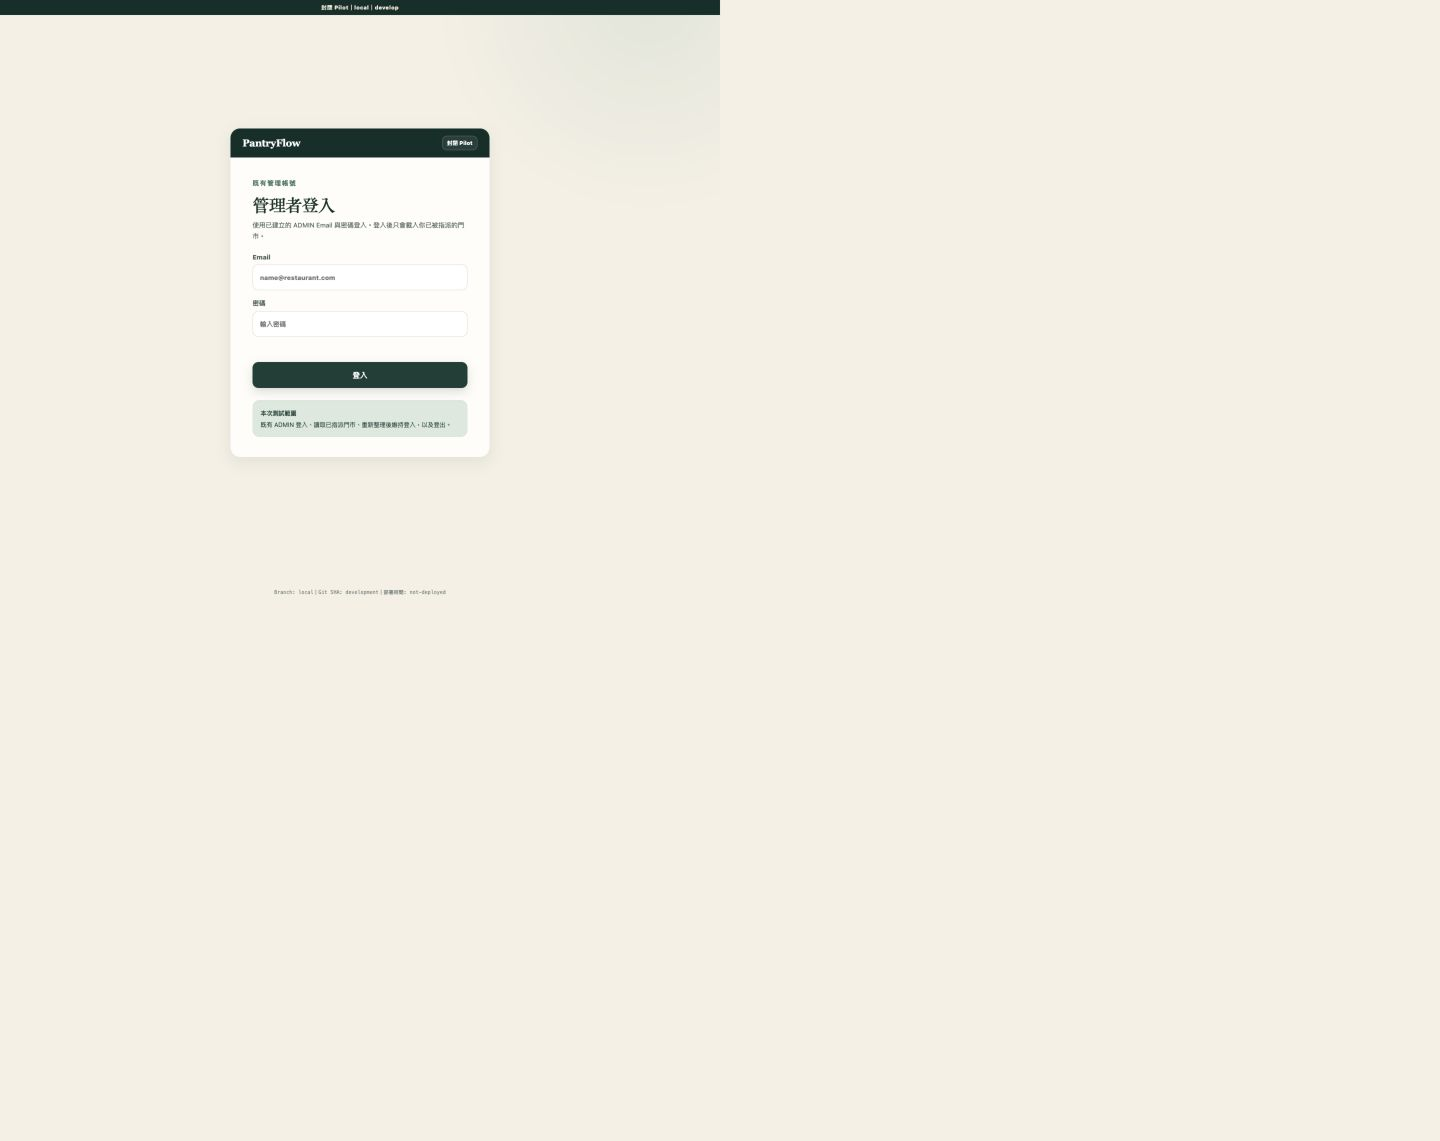
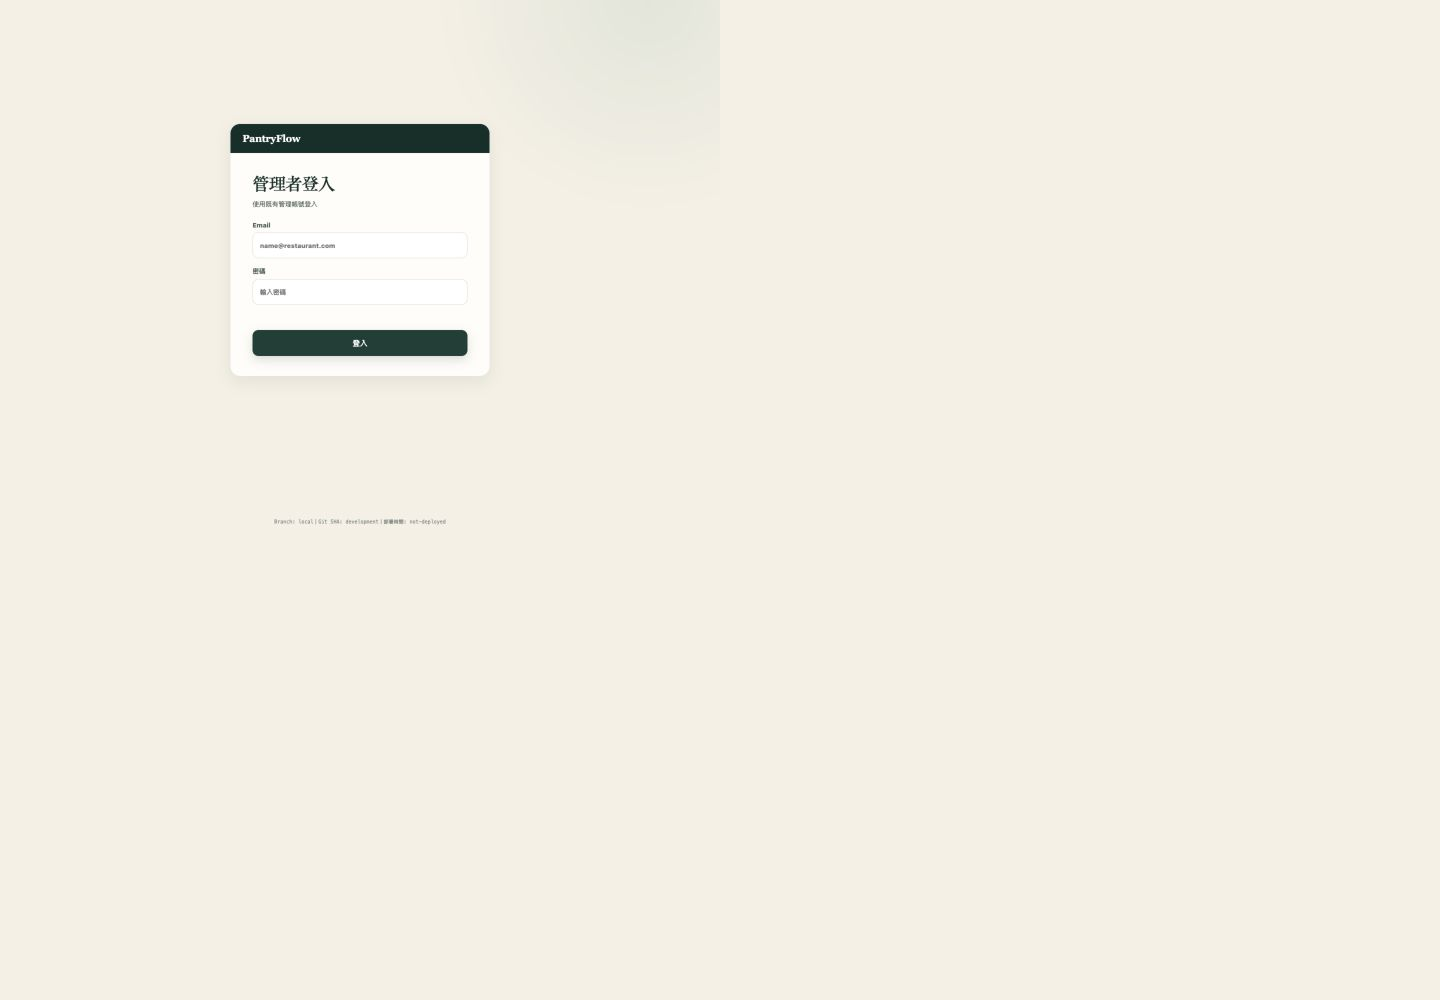
fix: apply confirmed ADMIN login visual rules

diff --git a/pilot-v1/app.js b/pilot-v1/app.js
@@ -19,10 +19,10 @@ document.querySelector('#build-version').textContent=`Branch: ${build.branch}｜
 function message(error){const raw=String(error?.message||'');if(/invalid login credentials/i.test(raw))return'Email 或密碼不正確。';if(/INVALID_STAFF|INVALID_LOGIN/i.test(raw))return'門市、員工識別或 PIN 不正確。';if(/PIN_LOCKED/i.test(raw))return'PIN 已鎖定 15 分鐘，請稍後再試或請主管重設。';if(/OWNER_EMAIL_NOT_VERIFIED/i.test(raw))return'請先完成 Email 驗證。';if(/STORE_ALREADY|23505/i.test(raw))return'門市代碼或商品編碼已存在。';if(/COUNT_ZONE_REQUIRED/i.test(raw))return'請先建立至少一個盤點區域。';if(/ZONE_PRODUCTS_REQUIRED/i.test(raw))return'每個啟用區域都必須先加入商品。';if(/OPENING_BALANCE_REQUIRED/i.test(raw))return'商品缺少正式期初數量。';if(/ACTIVE_COUNT_SESSION_EXISTS/i.test(raw))return'已有進行中的盤點任務。';if(/COUNT_ZONE_INCOMPLETE/i.test(raw))return'請輸入此區域全部商品的數量後再完成。';return'目前無法寫入正式資料，請確認內容與網路後重試。'}
 function bindError(form,work){form.addEventListener('submit',async event=>{event.preventDefault();const node=form.querySelector('[data-error]');node.textContent='';try{await work(new FormData(form))}catch(error){console.error(error);node.textContent=message(error)}})}
 
-function renderLogin(){root.innerHTML=loginPage();bindError(document.querySelector('#management-login'),async form=>{await signIn(form.get('email'),form.get('password'));await boot()})}
-function renderStorePicker(){root.innerHTML=storePickerPage(state.stores);root.querySelectorAll('[data-store]').forEach(button=>button.onclick=()=>{state.store=state.stores.find(x=>x.id===button.dataset.store);renderPage('home')})}
+function renderLogin(){document.body.classList.add('admin-auth-view');root.innerHTML=loginPage();bindError(document.querySelector('#management-login'),async form=>{await signIn(form.get('email'),form.get('password'));await boot()})}
+function renderStorePicker(){document.body.classList.add('admin-auth-view');root.innerHTML=storePickerPage(state.stores);root.querySelectorAll('[data-store]').forEach(button=>button.onclick=()=>{state.store=state.stores.find(x=>x.id===button.dataset.store);renderPage('home')})}
 
-async function renderPage(page,context={}){state.page=page;state.context=context;const role=state.profile.is_owner?'OWNER':state.store.role;const canManage=state.profile.is_owner||['ADMIN','SUPERVISOR'].includes(state.store.role);let content;
+async function renderPage(page,context={}){document.body.classList.remove('admin-auth-view');state.page=page;state.context=context;const role=state.profile.is_owner?'OWNER':state.store.role;const canManage=state.profile.is_owner||['ADMIN','SUPERVISOR'].includes(state.store.role);let content;
   if(page==='home')content=homePage({role,storeName:state.store.name,erpEnabled:Boolean(state.store.erp_acceptance_enabled)});
   else if(page==='count')content=countPage(await countWorkspace(state.store.id,state.profile.id,canManage),{canManage,context});
   else if(page==='catalog')content=catalogPage(await catalogWorkspace(state.store.id));
@@ -45,7 +45,7 @@ async function renderPage(page,context={}){state.page=page;state.context=context
   document.querySelectorAll('[data-correct-receipt-field]').forEach(form=>bindError(form,async values=>{let oldValue=null;try{oldValue=JSON.parse(values.get('oldValue'))}catch{}await correctReceiptField(state.profile,form.dataset.batch,form.dataset.correctReceiptField,oldValue,values.get('value'));await renderPage('receiving',{batchId:form.dataset.batch})}));
   document.querySelector('[data-store-switch]')?.addEventListener('click',()=>state.stores.length>1?renderStorePicker():renderPage('profile'));document.querySelector('[data-sign-out]')?.addEventListener('click',async()=>{await signOut();renderLogin()});const storeForm=document.querySelector('#create-store');if(storeForm)bindError(storeForm,async form=>{await createStore(Object.fromEntries(form));state.stores=await stores(state.profile.id);await renderPage('profile')});const staffForm=document.querySelector('#create-staff');if(staffForm)bindError(staffForm,async form=>{await createStaff(Object.fromEntries(form));await renderPage('profile')});document.querySelectorAll('[data-reset-pin]').forEach(form=>bindError(form,async values=>{await resetStaffPin(form.dataset.resetPin,values.get('pin'));await renderPage('profile')}));document.querySelectorAll('[data-disable-staff]').forEach(button=>button.onclick=async()=>{button.disabled=true;try{await disableStaff(button.dataset.disableStaff);await renderPage('profile')}catch(error){console.error(error);button.disabled=false;button.textContent=message(error)}});const upload=document.querySelector('#receipt-upload');if(upload)bindError(upload,async form=>{const files=[...form.getAll('files')].filter(file=>file.size);await uploadReceipts(state.store,state.profile,files);await renderPage('receiving')})}
 
-function renderUnassignedStore(){root.innerHTML=unassignedStorePage();document.querySelector('[data-sign-out]').onclick=async()=>{await signOut();renderLogin()}}
+function renderUnassignedStore(){document.body.classList.add('admin-auth-view');root.innerHTML=unassignedStorePage();document.querySelector('[data-sign-out]').onclick=async()=>{await signOut();renderLogin()}}
 
 async function boot(preferredStoreId){state.session=await session();if(!state.session)return renderLogin();state.profile=await profile(state.session.user.id);if(!state.profile.organization_id)return renderUnassignedStore();state.stores=await stores(state.profile.id);if(!state.stores.length)return renderUnassignedStore();state.store=state.stores.find(x=>x.id===preferredStoreId)||state.stores[0];if(state.stores.length>1&&!preferredStoreId)return renderStorePicker();await renderPage('home')}
 

diff --git a/pilot-v1/design-tokens.css b/pilot-v1/design-tokens.css
@@ -25,3 +25,4 @@
 /* PF-LOGIN-UI-PROPOSAL-20260824: ADMIN-only proposal pending user decision. */
 .admin-login-stage{min-height:calc(100vh - 30px);display:grid;place-items:start center;padding:32px 16px 28px}.admin-login-frame{width:min(100%,460px);overflow:hidden;border:1px solid rgba(23,63,53,.12);border-radius:20px;background:var(--surface);box-shadow:0 10px 30px rgba(24,52,44,.08)}.admin-login-topbar{display:flex;align-items:center;justify-content:space-between;min-height:58px;padding:0 20px;background:var(--forest-950);color:#fff}.admin-login-topbar strong{font-family:Georgia,"Noto Serif TC",serif;font-size:20px;letter-spacing:-.02em}.admin-login-topbar span{padding:6px 9px;border:1px solid rgba(255,255,255,.24);border-radius:10px;background:rgba(255,255,255,.08);font-size:11px;font-weight:800}.admin-login-content{padding:32px 24px}.admin-login-heading{margin-bottom:24px}.admin-login-heading .eyebrow{margin:0 0 12px;color:var(--forest-700)}.admin-login-heading h1{margin:0 0 10px;font-family:Georgia,"Noto Serif TC",serif;font-size:30px;line-height:1.2;letter-spacing:-.035em}.admin-login-heading p{margin:0;color:var(--ink-soft);font-size:13px;line-height:1.65}.admin-login-form .field{margin-top:16px;font-size:13px}.admin-login-form .field input{height:52px;border-radius:12px;background:#fff}.admin-login-form .primary{min-height:52px;border-radius:12px;font-size:15px}.admin-login-error{min-height:20px;margin-top:12px;padding:0}.admin-login-error:not(:empty){padding:11px 12px;border:1px solid #efd0cb;border-radius:12px;background:#fff4f1}.admin-login-note{margin-top:24px;padding:15px 16px;border-radius:14px;background:var(--sage);color:var(--forest-900)}.admin-login-note strong{font-size:12px}.admin-login-note p{margin:6px 0 0;font-size:12px;line-height:1.55}.admin-store-choice{width:100%;padding:14px 15px;text-align:left}.admin-store-choice strong,.admin-store-choice small{display:block}.admin-store-choice small{margin-top:5px;color:var(--muted)}.admin-empty-state{text-align:center}.admin-empty-icon{display:grid;width:44px;height:44px;place-items:center;margin:0 auto 18px;border-radius:14px;background:var(--amber-soft);color:#9a6220;font-weight:900}.admin-empty-state .secondary{width:100%}
 @media(min-width:760px){.admin-login-stage{place-items:center;padding:48px 24px}.admin-login-frame{width:min(100%,520px)}.admin-login-content{padding:40px 44px}.admin-login-topbar{padding:0 24px}.admin-login-heading h1{font-size:34px}}
+.admin-auth-view .build-banner{display:none}.admin-auth-view .admin-login-stage{min-height:100vh}.admin-login-topbar{justify-content:flex-start}

diff --git a/pilot-v1/pages/login.js b/pilot-v1/pages/login.js
@@ -5,7 +5,6 @@ function authShell(content) {
     <section class="admin-login-frame" aria-labelledby="admin-login-title">
       <header class="admin-login-topbar">
         <strong>PantryFlow</strong>
-        <span>封閉 Pilot</span>
       </header>
       ${content}
     </section>
@@ -15,9 +14,8 @@ function authShell(content) {
 export function loginPage() {
   return authShell(`<div class="admin-login-content">
     <div class="admin-login-heading">
-      <p class="eyebrow">既有管理帳號</p>
       <h1 id="admin-login-title">管理者登入</h1>
-      <p>使用已建立的 ADMIN Email 與密碼登入。登入後只會載入你已被指派的門市。</p>
+      <p>使用既有管理帳號登入</p>
     </div>
     <form id="management-login" class="admin-login-form">
       <label class="field">Email
@@ -29,10 +27,6 @@ export function loginPage() {
       <p class="error admin-login-error" data-error aria-live="polite"></p>
       <button class="primary" type="submit">登入</button>
     </form>
-    <aside class="admin-login-note" aria-label="登入範圍說明">
-      <strong>本次測試範圍</strong>
-      <p>既有 ADMIN 登入、讀取已指派門市、重新整理後維持登入，以及登出。</p>
-    </aside>
   </div>`);
 }
 

diff --git a/docs/decisions/PF-LOGIN-UI-PROPOSAL-20260824.md b/docs/decisions/PF-LOGIN-UI-PROPOSAL-20260824.md
@@ -1,6 +1,6 @@
 # PF-LOGIN-UI-PROPOSAL-20260824
 
-狀態：**PROPOSAL／待使用者看圖確認，不是 UI 定案**  
+狀態：**VISUAL RULES CONFIRMED 2026-08-24／PR #14 尚未合併、不是既有三圖的替代圖**
 父功能 PR：#12 feat/pf-login-real-20260823  
 提案範圍：既有 ADMIN Email／Password 登入、錯誤訊息、未指派門市訊息。  
 明確排除：Owner 註冊、建立門市、員工 PIN、進貨、OCR、盤點。
@@ -33,13 +33,14 @@ ADMIN Email／Password 登入在三張圖中都未呈現。本提案只能沿用
 - 登入後沒有 membership 時，顯示「尚未指派門市」與登出按鈕。
 - 不呈現其他角色或功能入口。
 
-## 待使用者確認
+## 2026-08-24 使用者確認規則
 
-- 「管理者登入」標題與「既有管理帳號」眉題。
-- 深綠頂欄中的 PantryFlow／封閉 Pilot 排列。
-- Email／Password 欄位順序、提示文字與滿寬登入按鈕。
-- 淡綠測試範圍提示是否保留。
-- 未指派門市訊息與登出按鈕的文字。
-- 桌機卡片最大寬度 520px；手機使用單欄滿寬卡片。
+- 頁面標題固定為「管理者登入」，說明固定為「使用既有管理帳號登入」。
+- 頂端只顯示 PantryFlow；不顯示「封閉 Pilot」或其他內部測試名稱。
+- 欄位固定為 Email、密碼；移除淡綠測試範圍區塊。
+- 沒有有效門市時顯示「尚未指派門市」並提供登出。
+- 桌機卡片最大寬度 520px；手機使用滿寬輸入欄與按鈕。
+- 保留米白背景、白色卡片、細框／低陰影與深森林綠主按鈕。
+- 禁止深綠左右分欄、葉片 Logo 與直向身份卡。
 
-使用者確認前，本文件與截圖均不得升級為 LOCKED 或取代 PF-UIV2-IMG-01。
+PR #14 合併前，本文件與截圖不得標示為已部署，也不得取代 PF-UIV2-IMG-01。

diff --git a/docs/decisions/PF-UI-V2/proposals/PF-LOGIN-UI-20260824/README.md b/docs/decisions/PF-UI-V2/proposals/PF-LOGIN-UI-20260824/README.md
@@ -1,6 +1,6 @@
 # ADMIN 登入畫面視覺提案
 
-狀態：PROPOSAL，待使用者確認。這兩張圖不是定案圖。
+狀態：視覺規則已由使用者於 2026-08-24 確認；PR #14 尚未合併、未部署。
 
 ## 與 PF-UIV2-IMG-01 並列
 
